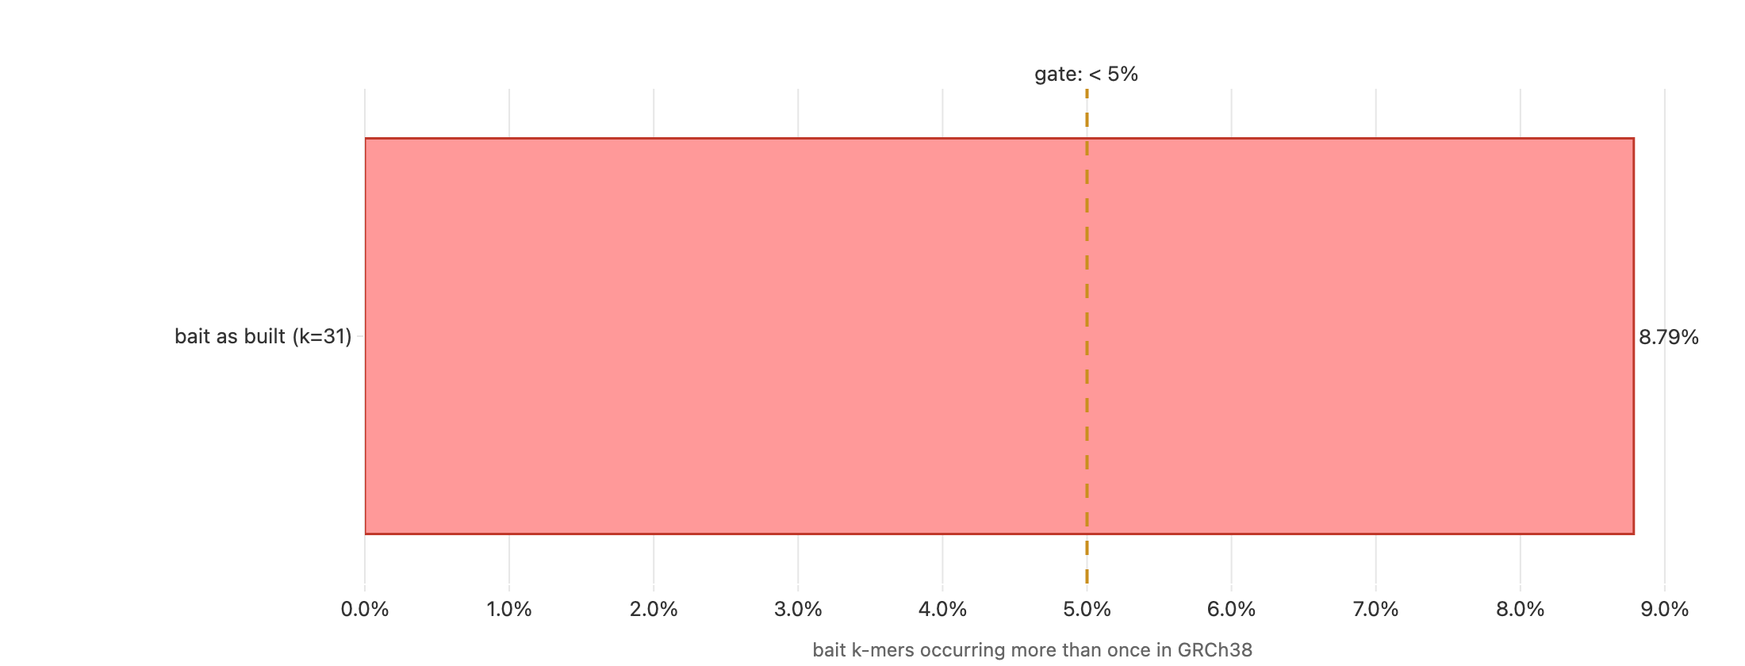
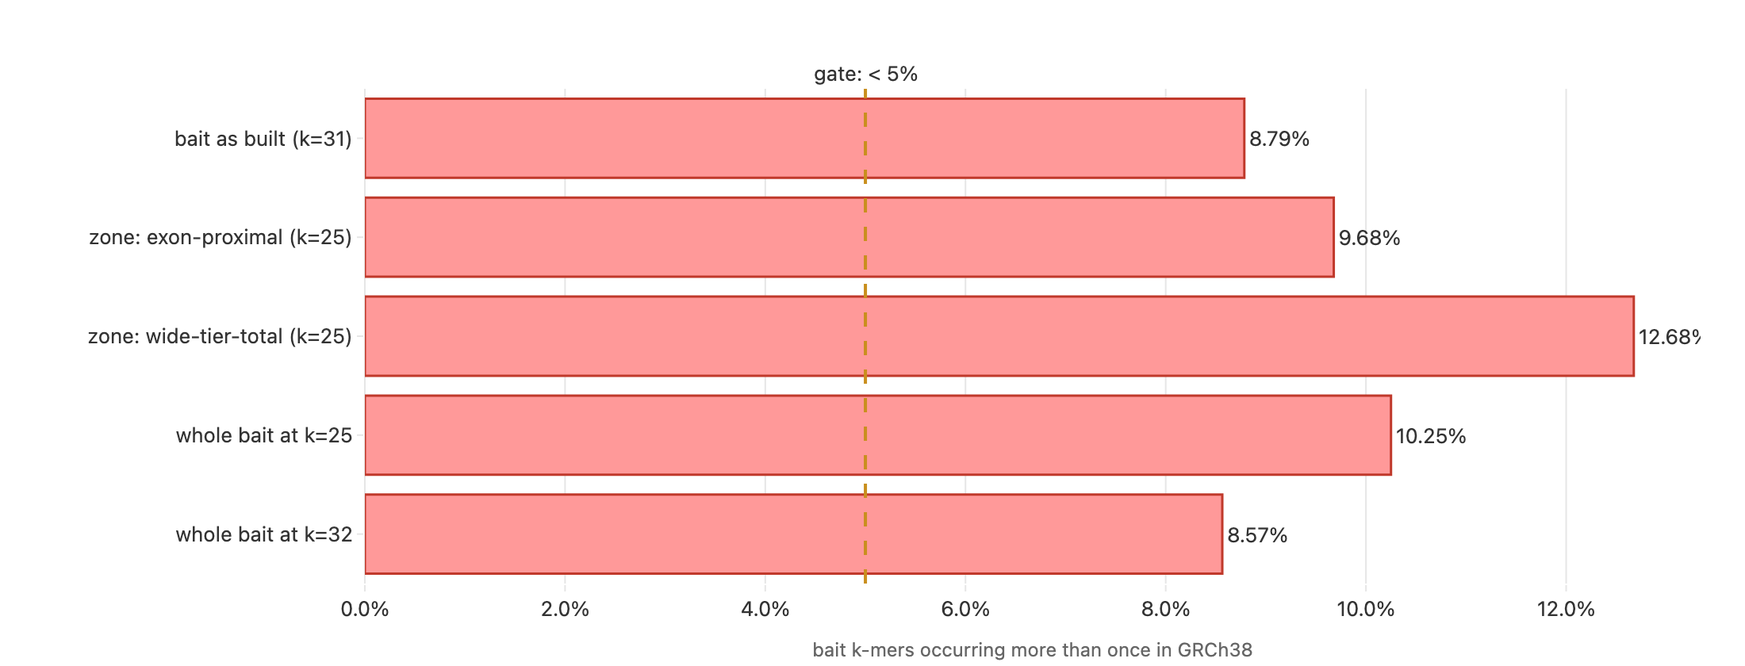
docs(step-2): no k passes the gate either, and no k could
The k half of entry 086, measured. A k-mer is packed two bits per base into one uint64, so
32 is the ceiling of this representation and reaching past it changes the engine rather
than a parameter.

    k=25   38,307,240 k-mers   10.25% repeated   fail
    k=31   39,508,982 k-mers    8.79% repeated   fail
    k=32   39,672,612 k-mers    8.57% repeated   fail

Within the representation nothing passes. The curve is shallow — 0.243 points per base
from 25 to 31, 0.220 from 31 to 32 — so a straight line puts 5% at k ~ 48, sixteen bases
past what a uint64 holds.

And that extrapolation is an upper bound, not an estimate, for a reason entry 085 already
named: the genes carrying the off-target load are TBC1D3, GOLGA6, NBPF, POTE, HNRNPCL,
SPDYE, FRG2B, LIMS4 — segmental-duplication families whose copies span tens to hundreds of
kilobases. A k-mer inside a 100 kb duplicated block has an exact second copy at k=31, at
k=48 and at k=1000: **no k escapes a repeat longer than k.** The measured slope is the easy
part of the curve, the short and diverged repeats, and there is a floor under it that
lengthening k cannot reach.

So both levers are now measured and neither reaches 5%: dropping the ±50 kb padding
entirely gives 8.38% and costs the only reach step 2 has for an exon-scale deletion; k=32
gives 8.57% and breaks the parameter step 3's genotyping is specified in. The gate did not
fail because the bait was built carelessly. It failed because the genes the child's
[…]

diff --git a/figures/track1/iteration2/step-2/index.html b/figures/track1/iteration2/step-2/index.html
@@ -198,21 +198,22 @@ code { font-family: var(--mono); font-size: 0.9em; background: var(--ground); pa
   <h1>Iteration 2, step 2 — the alleles the reads carry</h1>
   <p class="subject">PROBAND01 — recovered from the raw reads, without the vendor caller</p>
   <input id="filter" type="search" placeholder="Filter exhibits  ( / )" autocomplete="off">
-  <ol><li><a class="section-link" href="#section-it2-step-2">Step 2 — the alleles the reads carry</a><ol><li><a class="exhibit-link" href="#bait-uniqueness" data-target="bait-uniqueness">The off-target gate, and everything it was compared against</a></li><li><a class="exhibit-link" href="#bait-density" data-target="bait-density">What the gate was proxying for: can the bait reach each gene?</a></li></ol></li></ol>
+  <ol><li><a class="section-link" href="#section-it2-step-2">Step 2 — the alleles the reads carry</a><ol><li><a class="exhibit-link" href="#recovery-funnel" data-target="recovery-funnel">From 1.07 billion reads to the fragments worth aligning</a></li><li><a class="exhibit-link" href="#bait-uniqueness" data-target="bait-uniqueness">The off-target gate, and everything it was compared against</a></li><li><a class="exhibit-link" href="#bait-density" data-target="bait-density">What the gate was proxying for: can the bait reach each gene?</a></li></ol></li></ol>
 </nav>
 <main>
 <header class="masthead">
   <h1>Iteration 2, step 2 — the alleles the reads carry</h1>
   <p>Every exhibit states how to read it and decodes its own colours; every graded number states the band it was judged against and why that band is the right one.</p>
-  <p class="meta">2 exhibits across 1 sections &middot; source
-  PROBAND01 — recovered from the raw reads, without the vendor caller &middot; generated 2026-09-11 23:32 UTC &middot; press <code>/</code> to
+  <p class="meta">3 exhibits across 1 sections &middot; source
+  PROBAND01 — recovered from the raw reads, without the vendor caller &middot; generated 2026-09-12 00:10 UTC &middot; press <code>/</code> to
   filter</p>
 </header>
 <section class="report-section" id="section-it2-step-2">
   <h2>Step 2 — the alleles the reads carry</h2>
   <p class="blurb">Recovering the reads that came from the target genes without the vendor&#x27;s caller, and measuring how much of those genes the recovery can actually see. Every figure is drawn from the run&#x27;s own output files.</p>
-  <figure class="exhibit" id="bait-uniqueness"><h3>The off-target gate, and everything it was compared against</h3><p class="caption">3,470,945 of 39,508,982 bait k-mers (8.79%) occur more than once in GRCh38 and were dropped. The pre-registered gate was 5%. It was not moved: the other bars are what the number was measured against, not attempts to pass it.</p><div style="height:100%; width:100%;">                        <script>window.PlotlyConfig = {MathJaxConfig: 'local'};</script>
-        <script charset="utf-8" src="https://cdn.plot.ly/plotly-4.0.0.min.js" integrity="sha256-FEYfO0yRyLtZCpnW0Dw/0DHKQO7Afrq3ml4+rBB818o=" crossorigin="anonymous"></script>                <div id="fig-bait-uniqueness" class="plotly-graph-div" style="height:100%; width:100%;"></div>            <script>                window.PLOTLYENV=window.PLOTLYENV || {};                                if (document.getElementById("fig-bait-uniqueness")) {                    Plotly.newPlot(                        "fig-bait-uniqueness",                        [{"hovertemplate":"%{y}: %{x:.4f}\u003cextra\u003e\u003c\u002fextra\u003e","marker":{"color":["#ff9999"],"line":{"color":["#c0392b"],"width":1.5}},"orientation":"h","text":["8.79%"],"textposition":"outside","x":[0.08785204842787395],"y":["bait as built (k=31)"],"type":"bar"}],                        {"template":{"layout":{"colorway":["#3d7ebd","#7a5cab","#3f8f47","#c98f1e","#c0392b","#4aa3a3","#a3579b","#6b8f3f","#b5762e","#8a8a8a"],"font":{"color":"#333333","family":"Inter, -apple-system, BlinkMacSystemFont, 'Segoe UI', Helvetica, Arial, sans-serif","size":13},"hoverlabel":{"bgcolor":"#ffffff","bordercolor":"#e6e6e6","font":{"family":"'SF Mono', 'JetBrains Mono', Menlo, Consolas, monospace","size":12}},"legend":{"bgcolor":"rgba(0,0,0,0)","font":{"size":12},"orientation":"h","x":0,"xanchor":"left","y":1.02,"yanchor":"bottom"},"margin":{"b":52,"l":64,"r":28,"t":56},"paper_bgcolor":"#ffffff","plot_bgcolor":"#ffffff","title":{"font":{"color":"#333333","size":17},"pad":{"b":12},"x":0,"xanchor":"left"},"xaxis":{"gridcolor":"#e6e6e6","linecolor":"#e6e6e6","tickcolor":"#e6e6e6","ticklen":4,"ticks":"outside","title":{"font":{"color":"#666666","size":12}},"zerolinecolor":"#e6e6e6"},"yaxis":{"gridcolor":"#e6e6e6","linecolor":"#e6e6e6","tickcolor":"#e6e6e6","ticklen":4,"ticks":"outside","title":{"font":{"color":"#666666","size":12}},"zerolinecolor":"#e6e6e6"}}},"shapes":[{"line":{"color":"#c98f1e","dash":"dash"},"type":"line","x0":0.05,"x1":0.05,"xref":"x","y0":0,"y1":1,"yref":"y domain"}],"annotations":[{"showarrow":false,"text":"gate: \u003c 5%","x":0.05,"xanchor":"center","xref":"x","y":1,"yanchor":"bottom","yref":"y domain"}],"xaxis":{"title":{"text":"bait k-mers occurring more than once in GRCh38"},"tickformat":".1%"},"yaxis":{"autorange":"reversed"},"margin":{"l":230},"showlegend":false},                        {"displaylogo": false, "responsive": true, "toImageButtonOptions": {"scale": 2, "filename": "bait-uniqueness"}, "modeBarButtonsToRemove": ["lasso2d", "select2d"]}                    )                };            </script>        </div><figcaption class="legend"><strong>red</strong> = above the gate, <strong>green</strong> = below it, <strong>yellow dashed</strong> = the gate itself. Zones are measured independently against the whole genome, so they do not partition the bait and their counts do not sum to it.</figcaption><p class="note">The k and zone sweep has not run.</p><p class="note">0 bait k-mers were never found in the genome pass, which must be zero: every one was cut from the same reference.</p></figure>
+  <figure class="exhibit" id="recovery-funnel"><h3>From 1.07 billion reads to the fragments worth aligning</h3><p class="caption">1,071,835,104 reads swept against 36,038,037 bait k-mers at stride 16. 1.3675% matched, against a bait occupying 1.36% of the genome — the agreement between those two numbers is the check that the engine is correct.</p><div style="height:100%; width:100%;">                        <script>window.PlotlyConfig = {MathJaxConfig: 'local'};</script>
+        <script charset="utf-8" src="https://cdn.plot.ly/plotly-4.0.0.min.js" integrity="sha256-FEYfO0yRyLtZCpnW0Dw/0DHKQO7Afrq3ml4+rBB818o=" crossorigin="anonymous"></script>                <div id="fig-recovery-funnel" class="plotly-graph-div" style="height:100%; width:100%;"></div>            <script>                window.PLOTLYENV=window.PLOTLYENV || {};                                if (document.getElementById("fig-recovery-funnel")) {                    Plotly.newPlot(                        "fig-recovery-funnel",                        [{"hovertemplate":"%{y}: %{x:,}\u003cextra\u003e\u003c\u002fextra\u003e","marker":{"color":["#e0d4f7","#cfe8ff","#cfe8ff","#8fd18f"],"line":{"color":["#7a5cab","#3d7ebd","#3d7ebd","#3f8f47"],"width":1.5}},"orientation":"h","text":["1,071,835,104","14,657,560","7,886,613","7,886,613"],"textposition":"outside","x":[1071835104,14657560,7886613,7886613],"y":["reads in the store","share a bait k-mer","distinct fragments","complete pairs"],"type":"bar"}],                        {"template":{"layout":{"colorway":["#3d7ebd","#7a5cab","#3f8f47","#c98f1e","#c0392b","#4aa3a3","#a3579b","#6b8f3f","#b5762e","#8a8a8a"],"font":{"color":"#333333","family":"Inter, -apple-system, BlinkMacSystemFont, 'Segoe UI', Helvetica, Arial, sans-serif","size":13},"hoverlabel":{"bgcolor":"#ffffff","bordercolor":"#e6e6e6","font":{"family":"'SF Mono', 'JetBrains Mono', Menlo, Consolas, monospace","size":12}},"legend":{"bgcolor":"rgba(0,0,0,0)","font":{"size":12},"orientation":"h","x":0,"xanchor":"left","y":1.02,"yanchor":"bottom"},"margin":{"b":52,"l":64,"r":28,"t":56},"paper_bgcolor":"#ffffff","plot_bgcolor":"#ffffff","title":{"font":{"color":"#333333","size":17},"pad":{"b":12},"x":0,"xanchor":"left"},"xaxis":{"gridcolor":"#e6e6e6","linecolor":"#e6e6e6","tickcolor":"#e6e6e6","ticklen":4,"ticks":"outside","title":{"font":{"color":"#666666","size":12}},"zerolinecolor":"#e6e6e6"},"yaxis":{"gridcolor":"#e6e6e6","linecolor":"#e6e6e6","tickcolor":"#e6e6e6","ticklen":4,"ticks":"outside","title":{"font":{"color":"#666666","size":12}},"zerolinecolor":"#e6e6e6"}}},"shapes":[{"line":{"color":"#c98f1e","dash":"dash"},"type":"line","x0":12377989,"x1":12377989,"xref":"x","y0":0,"y1":1,"yref":"y domain"}],"annotations":[{"showarrow":false,"text":"predicted 12,377,989","x":12377989,"xanchor":"center","xref":"x","y":1,"yanchor":"bottom","yref":"y domain"}],"xaxis":{"type":"log","title":{"text":"reads (log scale)"}},"yaxis":{"autorange":"reversed"},"margin":{"l":230}},                        {"displaylogo": false, "responsive": true, "toImageButtonOptions": {"scale": 2, "filename": "recovery-funnel"}, "modeBarButtonsToRemove": ["lasso2d", "select2d"]}                    )                };            </script>        </div><figcaption class="legend"><strong>Legend</strong> — the raw input; neutral machinery; good / safe / the goal; <strong>yellow dashed</strong> = the recovery predicted before the pass ran..</figcaption><p class="note">Gate: within 0.5-2x of 12,377,989 reads (6,188,994-24,755,978).</p></figure>
+<figure class="exhibit" id="bait-uniqueness"><h3>The off-target gate, and everything it was compared against</h3><p class="caption">3,470,945 of 39,508,982 bait k-mers (8.79%) occur more than once in GRCh38 and were dropped. The pre-registered gate was 5%. It was not moved: the other bars are what the number was measured against, not attempts to pass it.</p><div style="height:100%; width:100%;">                            <div id="fig-bait-uniqueness" class="plotly-graph-div" style="height:100%; width:100%;"></div>            <script>                window.PLOTLYENV=window.PLOTLYENV || {};                                if (document.getElementById("fig-bait-uniqueness")) {                    Plotly.newPlot(                        "fig-bait-uniqueness",                        [{"hovertemplate":"%{y}: %{x:.4f}\u003cextra\u003e\u003c\u002fextra\u003e","marker":{"color":["#ff9999","#ff9999","#ff9999","#ff9999","#ff9999"],"line":{"color":["#c0392b","#c0392b","#c0392b","#c0392b","#c0392b"],"width":1.5}},"orientation":"h","text":["8.79%","9.68%","12.68%","10.25%","8.57%"],"textposition":"outside","x":[0.08785204842787395,0.09678701293776218,0.126756781810897,0.10250409583149295,0.08565223787130527],"y":["bait as built (k=31)","zone: exon-proximal (k=25)","zone: wide-tier-total (k=25)","whole bait at k=25","whole bait at k=32"],"type":"bar"}],                        {"template":{"layout":{"colorway":["#3d7ebd","#7a5cab","#3f8f47","#c98f1e","#c0392b","#4aa3a3","#a3579b","#6b8f3f","#b5762e","#8a8a8a"],"font":{"color":"#333333","family":"Inter, -apple-system, BlinkMacSystemFont, 'Segoe UI', Helvetica, Arial, sans-serif","size":13},"hoverlabel":{"bgcolor":"#ffffff","bordercolor":"#e6e6e6","font":{"family":"'SF Mono', 'JetBrains Mono', Menlo, Consolas, monospace","size":12}},"legend":{"bgcolor":"rgba(0,0,0,0)","font":{"size":12},"orientation":"h","x":0,"xanchor":"left","y":1.02,"yanchor":"bottom"},"margin":{"b":52,"l":64,"r":28,"t":56},"paper_bgcolor":"#ffffff","plot_bgcolor":"#ffffff","title":{"font":{"color":"#333333","size":17},"pad":{"b":12},"x":0,"xanchor":"left"},"xaxis":{"gridcolor":"#e6e6e6","linecolor":"#e6e6e6","tickcolor":"#e6e6e6","ticklen":4,"ticks":"outside","title":{"font":{"color":"#666666","size":12}},"zerolinecolor":"#e6e6e6"},"yaxis":{"gridcolor":"#e6e6e6","linecolor":"#e6e6e6","tickcolor":"#e6e6e6","ticklen":4,"ticks":"outside","title":{"font":{"color":"#666666","size":12}},"zerolinecolor":"#e6e6e6"}}},"shapes":[{"line":{"color":"#c98f1e","dash":"dash"},"type":"line","x0":0.05,"x1":0.05,"xref":"x","y0":0,"y1":1,"yref":"y domain"}],"annotations":[{"showarrow":false,"text":"gate: \u003c 5%","x":0.05,"xanchor":"center","xref":"x","y":1,"yanchor":"bottom","yref":"y domain"}],"xaxis":{"title":{"text":"bait k-mers occurring more than once in GRCh38"},"tickformat":".1%"},"yaxis":{"autorange":"reversed"},"margin":{"l":230},"showlegend":false},                        {"displaylogo": false, "responsive": true, "toImageButtonOptions": {"scale": 2, "filename": "bait-uniqueness"}, "modeBarButtonsToRemove": ["lasso2d", "select2d"]}                    )                };            </script>        </div><figcaption class="legend"><strong>red</strong> = above the gate, <strong>green</strong> = below it, <strong>yellow dashed</strong> = the gate itself. Zones are measured independently against the whole genome, so they do not partition the bait and their counts do not sum to it.</figcaption><p class="note">Removing the wide padding entirely would move the load from 8.79% to 8.38% — padding is not the lever, and abandoning it costs the only reach step 2 has for an exon-scale deletion.</p><p class="note">0 bait k-mers were never found in the genome pass, which must be zero: every one was cut from the same reference.</p></figure>
 <figure class="exhibit" id="bait-density"><h3>What the gate was proxying for: can the bait reach each gene?</h3><p class="caption">Surviving unique k-mers per base, per gene, after the filter. 21 of 792 genes fall below half the median — and none of them is core or mechanism-term. The genes step 2 reasons about are all reachable; the sparse ones are segmental-duplication families, mostly in the decoy set.</p><div style="height:100%; width:100%;">                            <div id="fig-bait-density" class="plotly-graph-div" style="height:100%; width:100%;"></div>            <script>                window.PLOTLYENV=window.PLOTLYENV || {};                                if (document.getElementById("fig-bait-density")) {                    Plotly.newPlot(                        "fig-bait-density",                        [{"boxpoints":"outliers","fillcolor":"#8fd18f","hovertemplate":"%{x:.3f}\u003cextra\u003e\u003c\u002fextra\u003e","line":{"color":"#3f8f47"},"marker":{"color":"#3f8f47","size":4},"name":"core (n=59)","orientation":"h","x":[0.531604,0.879255,0.879788,0.834315,0.819063,0.876554,0.613066,0.85007,0.893076,0.941001,0.897311,0.890285,0.657975,0.798918,0.780592,0.897713,0.938969,0.887022,0.926384,0.877265,0.764792,0.947992,0.837489,0.932073,0.836748,0.769796,0.804118,0.950615,0.813448,0.962994,0.670176,0.8587,0.858582,0.813622,0.89141,0.803093,0.842924,0.836804,0.89874,0.656339,0.899317,0.933217,0.780285,0.770891,0.908247,0.945126,0.805104,0.837064,0.864908,0.835769,0.81304,0.947229,0.922887,0.920676,0.827523,0.822953,0.74112,0.847172,0.827627],"type":"box"},{"boxpoints":"outliers","fillcolor":"#8fd18f","hovertemplate":"%{x:.3f}\u003cextra\u003e\u003c\u002fextra\u003e","line":{"color":"#3f8f47"},"marker":{"color":"#3f8f47","size":4},"name":"mechanism-term (n=69)","orientation":"h","x":[0.87102,0.796136,0.943976,0.79229,0.720303,0.870018,0.844426,0.84787,0.850687,0.881279,0.736561,0.867259,0.854896,0.877392,0.79966,0.855098,0.892425,0.722427,0.835389,0.770679,0.884059,0.896405,0.693187,0.843852,0.858533,0.839717,0.861195,0.862814,0.866201,0.8539,0.801491,0.781185,0.870136,0.882989,0.834414,0.766362,0.805742,0.907255,0.81938,0.866468,0.800449,0.859872,0.830931,0.893969,0.841625,0.729709,0.728428,0.930114,0.763584,0.724473,0.796566,0.791616,0.951792,0.833857,0.798519,0.876761,0.823436,0.91129,0.803515,0.873638,0.448508,0.810111,0.748129,0.887044,0.828907,0.703604,0.700493,0.897411,0.901077],"type":"box"},{"boxpoints":"outliers","fillcolor":"#cfe8ff","hovertemplate":"%{x:.3f}\u003cextra\u003e\u003c\u002fextra\u003e","line":{"color":"#3d7ebd"},"marker":{"color":"#3d7ebd","size":4},"name":"net (n=268)","orientation":"h","x":[0.94563,0.943624,0.947596,0.949396,0.851195,0.747607,0.872241,0.974375,0.841411,0.767183,0.853508,0.24572,0.930164,0.972539,0.932836,0.983496,0.771669,0.964864,0.718898,0.848912,0.798176,0.919439,0.781247,0.807955,0.792994,0.972382,0.97444,0.880843,0.899201,0.996467,0.994718,0.959181,0.919471,0.92488,0.933727,0.956479,0.916413,0.720164,0.956389,0.991162,0.984469,0.928678,0.945413,0.814529,0.922766,0.970119,0.917988,0.884561,0.831873,0.715461,0.938708,0.956714,0.840469,0.918557,0.675989,0.750506,0.935247,0.974809,0.713614,0.892257,0.943327,0.994593,0.754298,0.793576,0.898066,0.823803,0.831045,0.7554,0.863297,0.838611,0.815458,0.952482,0.96539,0.842976,0.9609,0.858305,0.940353,0.907421,0.930527,0.974724,0.894751,0.836378,0.94416,0.993637,0.994683,0.969247,0.89218,0.738365,0.867121,0.972805,0.938422,0.908204,0.887289,0.994063,0.94717,0.979009,0.778646,0.869309,0.963681,0.974865,0.897588,0.918214,0.93698,0.426743,0.688245,0.047922,0.880788,0.586157,0.440943,0.844624,0.954067,0.876161,0.990094,0.947265,0.894249,0.989023,0.901243,0.886088,0.942015,0.875372,0.752426,0.934188,0.939283,0.983025,0.823611,0.832296,0.882942,0.818968,0.732601,0.848409,0.945108,0.845993,0.968399,0.910734,0.680277,0.848343,0.833138,0.883585,0.847492,0.901209,0.920909,0.887931,0.822132,0.896466,0.941099,0.978297,0.811749,0.964583,0.849306,0.670351,0.862413,0.817596,0.889298,0.887001,0.892105,0.830812,0.882169,0.893021,0.910341,0.908175,0.882189,0.98508,0.947064,0.935689,0.862367,0.966988,0.928036,0.92123,0.877034,0.846583,0.994427,0.818583,0.974843,0.971662,0.96017,0.897256,0.435636,0.871254,0.826542,0.821385,0.896063,0.869163,0.936314,0.848565,0.884726,0.768288,0.977499,0.948763,0.997107,0.826224,0.970819,0.72501,0.939653,0.856296,0.809334,0.943624,0.849692,0.780705,0.822355,0.904245,0.83948,0.899608,0.975556,0.864004,0.745566,0.552537,0.83148,0.901046,0.797039,0.662771,0.860379,0.841695,0.879114,0.800256,0.783461,0.463569,0.555094,0.855625,0.747796,0.760952,0.899314,0.991306,0.972004,0.930459,0.833165,0.933772,0.908877,0.89656,0.96649,0.825396,0.920569,0.97585,0.899596,0.925489,0.990871,0.979965,0.832999,0.774868,0.759086,0.834152,0.890618,0.853808,0.915616,0.767623,0.929448,0.967757,0.872891,0.958556,0.731654,0.813441,0.946804,0.811605,0.770296,0.884119,0.917731,0.910822,0.959708,0.854579,0.886796,0.844135,0.828106,0.904419,0.941713,0.879544,0.840239,0.820492,0.991877,0.821042],"type":"box"},{"boxpoints":"outliers","fillcolor":"#e6e6e6","hovertemplate":"%{x:.3f}\u003cextra\u003e\u003c\u002fextra\u003e","line":{"color":"#888888"},"marker":{"color":"#888888","size":4},"name":"decoy (n=396)","orientation":"h","x":[0.912016,0.931498,0.925798,0.994035,0.920734,0.945613,0.75183,0.874714,0.658056,0.917692,0.945336,0.790686,0.921354,0.927609,0.940939,0.957876,0.814305,0.943106,0.869611,0.925649,0.847681,0.984679,0.695823,0.893324,0.920334,0.956499,0.896211,0.915603,0.973992,0.913065,0.935155,0.822424,0.964732,0.993141,0.867369,0.946825,0.680591,0.809408,0.96122,0.935787,0.850385,0.912359,0.676406,0.836291,0.870345,0.903911,0.842935,0.959131,0.953292,0.885742,0.970359,0.882578,0.756187,0.836242,0.942709,0.96824,0.980028,0.802514,0.976089,0.878794,0.915633,0.840245,0.813283,0.833005,0.976406,0.947726,0.933154,0.989871,0.94612,0.189829,0.913569,0.939719,0.736785,0.912973,0.495717,0.885181,0.854527,0.864282,0.995023,0.857968,0.78677,0.965122,0.831088,0.393372,0.922769,0.877873,0.867821,0.993731,0.640776,0.949566,0.78456,0.862266,0.941235,0.916765,0.967397,0.903949,0.797425,0.951547,0.869925,0.918553,0.974927,0.847993,0.93396,0.734205,0.974334,0.876171,0.931312,0.030234,0.846505,0.194624,0.747487,0.909566,0.927032,0.832633,0.947258,0.895362,0.977907,0.93977,0.89394,0.821567,0.900076,0.907644,0.857599,0.883295,0.93002,0.790305,0.810953,0.714616,0.917154,0.993612,0.927938,0.104789,0.941755,0.930512,0.779778,0.772214,0.839701,0.730331,0.975071,0.035863,0.021928,0.907192,0.994545,0.972437,0.918477,0.915614,0.960839,0.923796,0.012661,0.905849,0.925256,0.538293,0.936243,0.870928,0.796251,0.918701,0.883802,0.951688,0.975102,0.807005,0.957262,0.901311,0.916537,0.986101,0.850762,0.921282,0.861878,0.932735,0.89903,0.618985,0.002458,0.876444,0.919382,0.963807,0.957201,0.996128,0.754332,0.909028,0.923753,0.926043,0.99156,0.777094,0.76293,0.962565,0.967687,0.973008,0.863614,0.849655,0.891899,0.952922,0.936848,0.79557,0.867083,0.804115,0.895991,0.90886,0.832827,0.947216,0.949474,0.918221,0.792168,0.99514,0.960942,0.915796,0.876967,0.966099,0.104692,0.950461,0.9361,0.916575,0.981174,0.812817,0.936501,0.722268,0.981931,0.916555,0.955555,0.965827,0.779977,0.714738,0.767059,0.952552,0.969895,0.984832,0.824471,0.897471,0.938491,0.90074,0.922827,0.833549,0.931898,0.931231,0.903323,0.886718,0.924717,0.42221,0.994292,0.965137,0.997799,0.938253,0.916863,0.924943,0.746782,0.961262,0.89516,0.953529,0.907848,0.890014,0.92387,0.955213,0.046256,0.877184,0.767625,0.882612,0.88591,0.836476,0.995753,0.901325,0.878335,0.87034,0.805532,0.77981,0.908662,0.976156,0.830136,0.901213,0.993463,0.04529,0.872896,0.894905,0.920419,0.940234,0.923047,0.938464,0.745997,0.935499,0.952506,0.969237,0.819614,0.82216,0.859368,0.916603,0.846841,0.933701,0.938575,0.795288,0.849125,0.847754,0.916814,0.84262,0.907755,0.918604,0.895494,0.858127,0.912057,0.68779,0.814937,0.744164,0.919966,0.892329,0.903194,0.914025,0.918643,0.92317,0.800913,0.866575,0.653569,0.955525,0.883623,0.976446,0.897846,0.916323,0.746758,0.840918,0.956068,0.788468,0.0171,0.929776,0.937815,0.87965,0.842702,0.732761,0.861785,0.894979,0.908693,0.641308,0.985657,0.009102,0.021891,0.915825,0.788411,0.964281,0.91955,0.894821,0.818449,0.954828,0.887504,0.891615,0.828338,0.993855,0.8742,0.811729,0.778112,0.918348,0.952215,0.827688,0.994216,0.884847,0.99043,0.923992,0.854843,0.919218,0.884496,0.905151,0.943657,0.953476,0.616918,0.931173,0.913253,0.927893,0.910994,0.868022,0.800182,0.95484,0.919658,0.710823,0.984348,0.901997,0.854752,0.94048,0.956838,0.966994,0.908141,0.917019,0.858732,0.875375,0.865057,0.67312,0.902679,0.786124,0.863361,0.945331,0.90967,0.916348,0.888237,0.861139,0.76219,0.728291,0.993301,0.9691,0.860157,0.8765,0.902688,0.87495,0.876522,0.910101],"type":"box"}],                        {"template":{"layout":{"colorway":["#3d7ebd","#7a5cab","#3f8f47","#c98f1e","#c0392b","#4aa3a3","#a3579b","#6b8f3f","#b5762e","#8a8a8a"],"font":{"color":"#333333","family":"Inter, -apple-system, BlinkMacSystemFont, 'Segoe UI', Helvetica, Arial, sans-serif","size":13},"hoverlabel":{"bgcolor":"#ffffff","bordercolor":"#e6e6e6","font":{"family":"'SF Mono', 'JetBrains Mono', Menlo, Consolas, monospace","size":12}},"legend":{"bgcolor":"rgba(0,0,0,0)","font":{"size":12},"orientation":"h","x":0,"xanchor":"left","y":1.02,"yanchor":"bottom"},"margin":{"b":52,"l":64,"r":28,"t":56},"paper_bgcolor":"#ffffff","plot_bgcolor":"#ffffff","title":{"font":{"color":"#333333","size":17},"pad":{"b":12},"x":0,"xanchor":"left"},"xaxis":{"gridcolor":"#e6e6e6","linecolor":"#e6e6e6","tickcolor":"#e6e6e6","ticklen":4,"ticks":"outside","title":{"font":{"color":"#666666","size":12}},"zerolinecolor":"#e6e6e6"},"yaxis":{"gridcolor":"#e6e6e6","linecolor":"#e6e6e6","tickcolor":"#e6e6e6","ticklen":4,"ticks":"outside","title":{"font":{"color":"#666666","size":12}},"zerolinecolor":"#e6e6e6"}}},"shapes":[{"line":{"color":"#c0392b","dash":"dash"},"type":"line","x0":0.44385874999999997,"x1":0.44385874999999997,"xref":"x","y0":0,"y1":1,"yref":"y domain"}],"annotations":[{"showarrow":false,"text":"half the median (0.44) — 21 below","x":0.44385874999999997,"xanchor":"left","xref":"x","y":0,"yanchor":"bottom","yref":"y domain"}],"xaxis":{"title":{"text":"surviving unique k-mers per base"},"range":[0,1.05]},"margin":{"l":230}},                        {"displaylogo": false, "responsive": true, "toImageButtonOptions": {"scale": 2, "filename": "bait-density"}, "modeBarButtonsToRemove": ["lasso2d", "select2d"]}                    )                };            </script>        </div><figcaption class="legend"><strong>Legend</strong> — good / safe / the goal; neutral machinery; context, not the subject; <strong>green</strong> = the tiers step 2 draws conclusions from, <strong>blue</strong> = screened but not core, <strong>grey</strong> = the decoy null; <strong>red dashed</strong> = the reachability threshold..</figcaption><p class="note">The decoy set carries 16 of the 21 sparse genes against the targets&#x27; 5, which is why H020 is reported twice — over all genes and restricted to reachable ones (entry 085).</p></figure>
 </section>
 </main>

diff --git a/tools/check_it2_bait_recall.py b/tools/check_it2_bait_recall.py
@@ -54,6 +54,29 @@ WAIT_SECONDS = 25
 POLL_ROUNDS = 160
 
 
+def submit_all(probes: list[tuple[str, str]], base: str, token: str, *, chunk: int) -> dict:
+    """Run the strike in batches of ``chunk`` probes and merge the hits.
+
+    One pass over 1.07 billion reads costs the same for 1 probe or 500 — that is the
+    strike's whole design — so batching is normally wrong. It is right here for a reason
+    that has nothing to do with speed: at ~200 probes the survivor scan repeatedly took
+    the shared job service down mid-pass, three times, while the batch size step-0 entry
+    027 measured and proved (20) has never failed. Correctness is identical either way;
+    what changes is whether the run finishes.
+
+    The cost is real and is stated: N/chunk full passes instead of one.
+    """
+    merged: list[dict] = []
+    batches = [probes[start : start + chunk] for start in range(0, len(probes), chunk)]
+    print(f"{len(probes)} probes in {len(batches)} batches of up to {chunk}")
+    for index, batch in enumerate(batches, start=1):
+        print(f"batch {index}/{len(batches)} …")
+        result = submit_scan(batch, base, token)
+        merged.extend(result.get("hits", []))
+        print(f"  {len(result.get('hits', [])):,} hits ({result.get('seconds')}s)")
+    return {"hits": merged, "batches": len(batches)}
+
+
 def submit_scan(probes: list[tuple[str, str]], base: str, token: str, job_id: str = "") -> dict:
     """Run the 500-probe strike as a job and wait for it.
 
@@ -135,6 +158,13 @@ def parse_args(argv: list[str] | None) -> argparse.Namespace:
     parser.add_argument("--threshold", type=float, default=0.90, help="H021's refutation line")
     parser.add_argument("--skip-scan", action="store_true", help="reuse a saved strike result")
     parser.add_argument("--job", default="", help="attach to a strike already running")
+    parser.add_argument(
+        "--chunk",
+        type=int,
+        default=20,
+        help="probes per strike. 20 is the size step-0 entry 027 measured; larger batches "
+        "took the job service down three times.",
+    )
     return parser.parse_args(argv)
 
 
@@ -161,7 +191,10 @@ def main(argv: list[str] | None = None) -> int:
         base = args.api or setting("MVA_READS_API_URL") or "http://127.0.0.1:8765"
         token = setting("MVA_API_TOKEN") or ""
         started = time.perf_counter()
-        result = submit_scan(probes, base.rstrip("/"), token, job_id=args.job)
+        if args.job:
+            result = submit_scan(probes, base.rstrip("/"), token, job_id=args.job)
+        else:
+            result = submit_all(probes, base.rstrip("/"), token, chunk=args.chunk)
         print(f"strike returned in {time.perf_counter() - started:.0f}s")
         hits_path.write_text(json.dumps(result, indent=2), encoding="utf-8")
 

diff --git a/tools/render_it2_step2_figures.py b/tools/render_it2_step2_figures.py
@@ -101,8 +101,11 @@ def uniqueness_figure(summary: dict, sweep: dict | None) -> go.Figure:
         ("bait as built (k=31)", unique["repeated"] / unique["bait_kmers"])
     ]
     if sweep:
+        # Every bar carries the k it was measured at. The zones and the whole bait were
+        # not necessarily measured at the same k, and a bar that does not say so invites
+        # the reader to compare two numbers that are not comparable.
         rows.extend(
-            (f"zone: {name}", zone["off_target"])
+            (f"zone: {name} (k={zone['k']})", zone["off_target"])
             for name, zone in (sweep.get("by_zone") or {}).items()
         )
         rows.extend(

diff --git a/docs/iteration2/step-2/methodology/086-can-the-off-target-gate-be-reached.md b/docs/iteration2/step-2/methodology/086-can-the-off-target-gate-be-reached.md
@@ -63,7 +63,51 @@ trades a capability for four tenths of a percentage point.**
 
 ### k, within the representation
 
-*(pending — the k sweep is running)*
+A longer k-mer is more unique, so k is the only lever left once padding is ruled out. It is
+also bounded: a k-mer is packed two bits per base into one `uint64`, so **32 is the ceiling
+of this representation**, and reaching past it is a change to the engine rather than a
+change to a parameter.
+
+| k | bait k-mers | repeated | off-target | gate |
+|---|---|---|---|---|
+| 25 | 38,307,240 | 3,926,649 | **10.25 %** | fail |
+| 31 (as built) | 39,508,982 | 3,470,945 | **8.79 %** | fail |
+| 32 | 39,672,612 | 3,398,048 | **8.57 %** | fail |
+
+**Within the representation, no value of k passes.** The curve is shallow and close to
+linear over the measured range — 0.243 percentage points per base from 25 to 31, 0.220 from
+31 to 32 — so a straight-line extrapolation puts 5 % at **k ≈ 48**, sixteen bases beyond
+what a single `uint64` can hold.
+
+**And the extrapolation is optimistic, for a reason the data already showed.** Entry 085's
+per-gene profile named the genes carrying the off-target load: TBC1D3, GOLGA6, NBPF, POTE,
+HNRNPCL, SPDYE, FRG2B, LIMS4 — segmental-duplication families, where a gene has
+near-identical copies spanning tens to hundreds of kilobases. A k-mer inside a 100 kb
+duplicated block has an exact second copy at k = 31, at k = 48 and at k = 1000; **no k
+escapes a repeat longer than k.** The measured slope is therefore the easy part of the
+curve — the short and diverged repeats — and there is a floor beneath it that lengthening
+k cannot reach. Whether that floor is above or below 5 % is not measured here, and the
+honest statement is that the linear extrapolation is an upper bound on how well raising k
+would do, not an estimate of it.
+
+The zone split reproduces at k = 25 (exon-proximal 9.68 %, wide-tier reach 12.68 %, against
+8.38 % and 10.65 % at k = 31), so the two levers are independent, both move the number by
+about the same small amount, and neither rescues the other. Every figure labels the k each
+bar was measured at, because two of these numbers are not comparable without it.
+
+### Both levers, together
+
+| Lever | Best reachable value | Off-target | Cost of taking it |
+|---|---|---|---|
+| padding | drop the ±50 kb entirely | 8.38 % | the only reach step 2 has for an exon-scale deletion |
+| k | 32, the representation ceiling | 8.57 % | breaks the parameter step 3's genotyping is specified in |
+| neither | as built | 8.79 % | — |
+
+**No combination of the available parameters reaches 5 %**, and the two that move the number
+at all move it by fractions of a point while costing a capability each. The gate did not
+fail because the bait was built carelessly; it failed because the genes the child's
+symptoms nominated sit in repetitive neighbourhoods, which is a fact about the genome and
+about step 1's output, not about step 2's engine.
 
 ## What this does not change
 
